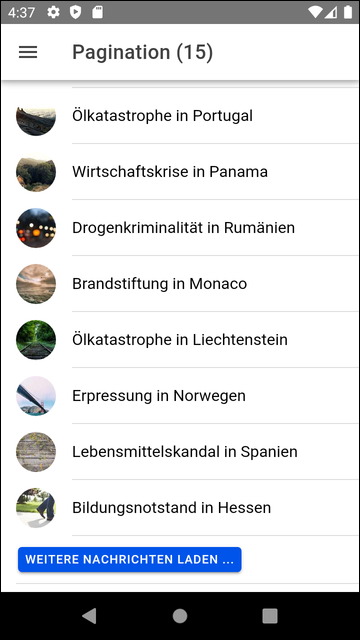
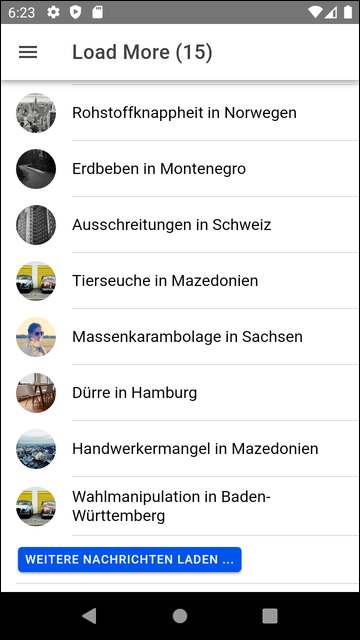
Zweite Seite heisst jetzt "Load More"

diff --git a/src/app/home/home.page.ts b/src/app/home/home.page.ts
@@ -52,13 +52,16 @@ export class HomePage implements OnInit {
    *              Laden der neuen Daten abgeschlossen ist, dann muss
    *              die Methode `complete()` aufgerufen werden.
    */
+
+
   onIonInfinite( event: InfiniteScrollCustomEvent ) {
 
-    const wartezeitMillisekunden = 1500;
+    const wartezeitMillisekunden = 5000;
 
     this.nachrichtenErzeugen();
 
-    setTimeout( () => { event.target.complete(); }, wartezeitMillisekunden ) ;
+    setTimeout( () => { event.target.complete(); }, 
+                wartezeitMillisekunden ) ;
   }
 
 }

diff --git a/src/app/app.component.html b/src/app/app.component.html
@@ -9,7 +9,7 @@
     <ion-content>
       <ion-list>
         <ion-item routerLink="/home"   routerDirection="forward" (click)="menuSchliessen()" >Infinite Scroll</ion-item>
-        <ion-item routerLink="/seite2" routerDirection="forward" (click)="menuSchliessen()" >Pagination</ion-item>
+        <ion-item routerLink="/seite2" routerDirection="forward" (click)="menuSchliessen()" >Load More</ion-item>
       </ion-list>
     </ion-content>
   </ion-menu>

diff --git a/src/app/home/home.page.html b/src/app/home/home.page.html
@@ -20,9 +20,6 @@
       </ion-item>
     </ion-list>
 
-    <!-- Der Wert des Attributs "threshold" gibt an, wie weit der Benutzer scrollen muss,
-        bevor das Event "ionInfinite" ausgelöst wird.
-     -->
     <ion-infinite-scroll (ionInfinite)="onIonInfinite($event)" threshold="5%">
       <ion-infinite-scroll-content loadingText="Lade weitere Katastrophenmeldungen ..."
                                    loadingSpinner="bubbles">

diff --git a/src/app/seite2/seite2.page.html b/src/app/seite2/seite2.page.html
@@ -3,7 +3,7 @@
     <ion-buttons slot="start">
       <ion-menu-button></ion-menu-button>
     </ion-buttons>
-    <ion-title>Pagination ({{nachrichtenArray.length}})</ion-title>
+    <ion-title>Load More ({{nachrichtenArray.length}})</ion-title>
   </ion-toolbar>
 </ion-header>
 

diff --git a/src/app/seite2/seite2.page.ts b/src/app/seite2/seite2.page.ts
@@ -2,6 +2,7 @@ import { Component, OnInit } from '@angular/core';
 
 import { NachrichtenService } from '../nachrichten.service';
 
+
 @Component({
   selector: 'app-seite2',
   templateUrl: './seite2.page.html',

diff --git a/README.md b/README.md
@@ -3,8 +3,9 @@
 <br>
 
 Die Ionic-App zeigt eine endlose Liste von zufällig erzeugte Negativschlagzeilen mit 
-[Infinite Scrolling](https://ionicframework.com/docs/api/infinite-scroll) und Paginierung
-an.
+[Infinite Scrolling](https://ionicframework.com/docs/api/infinite-scroll) und einem 
+"Load More"-Button am Ende der Liste als Alternative.
+
 
 <br>
 
@@ -18,7 +19,7 @@ Der Name der App bezieht sich auf den Begriff [Doomscrolling](https://www.spiege
 
 <br>
 
-![Screenshot](screenshot_1.png)
+![Screenshot: Infinite Scrolling](screenshot_1.png) &nbsp; ![Screenshot: Paging](screenshot_2.png)
 
 <br>
 
